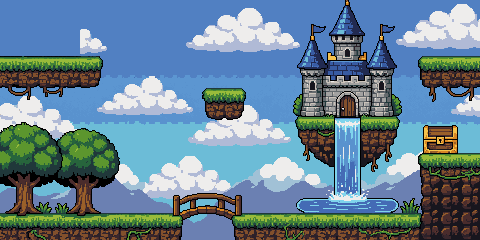
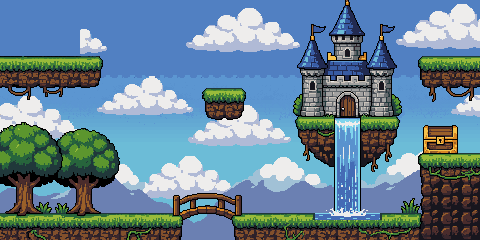
Cena inicial corrigida (ceu e lago), vidas embaixo da cena, heroina.png no app, e-mail da ficha escondido

Changed region(s): [[0.5938, 0.7875, 0.8438, 0.9333]]

diff --git a/index.html b/index.html
@@ -225,13 +225,17 @@ pre.codigo {
 .topo-meta { font-family: var(--f-pixel); color: var(--texto-2); font-size: 14px; }
 .tela-jogo { position: relative; border: 4px solid var(--borda); box-shadow: 7px 7px 0 var(--borda); background: var(--cod-bg); }
 .tela-jogo canvas { display: block; width: 100%; height: auto; filter: var(--filtro-arte); }
-.tj-hud { position: absolute; top: 8px; left: 8px; right: 8px; display: flex; justify-content: space-between; align-items: center; pointer-events: none; font-family: var(--f-pixel); }
+/* Vidas, nível e moedas numa barra embaixo da cena, para não cobrir o céu. */
+.tj-hud {
+  display: flex; justify-content: space-between; align-items: center; gap: 8px; padding: 6px 10px;
+  border-top: 4px solid var(--borda); background: var(--cod-bg); font-family: var(--f-pixel);
+}
 .tj-esq { display: flex; align-items: center; gap: 4px; }
 .tj-esq img { width: 20px; height: 20px; }
 .tj-pilula { background: var(--painel); color: var(--texto); border: 2px solid var(--borda); padding: 1px 8px; font-size: 14px; display: inline-flex; align-items: center; gap: 5px; }
 .tj-pilula img { width: 14px; height: 14px; }
 .tj-codigo {
-  position: absolute; left: 10px; top: 40px; max-width: 48%;
+  position: absolute; left: 10px; top: 10px; max-width: 48%;
   margin: 0; background: var(--cod-bg); color: var(--cod-fg); border: 2px solid var(--borda);
   box-shadow: 3px 3px 0 var(--borda); padding: 6px 10px; font: 11px/1.5 var(--f-cod); white-space: pre; overflow: hidden;
 }
@@ -936,7 +940,7 @@ details[open] .seta::before { content: "▾"; }
         </div>
       </article>
 
-      <article class="janela">
+      <article class="janela" id="f-email-janela">
         <header class="janela-barra"><span>4 · E-mail e relatórios</span><span class="luzes"><i></i><i></i><i></i></span></header>
         <div class="janela-corpo">
           <p class="lembrete-dica" id="f-email-intro" style="margin-top:0">Opcional. Receba o relatório da semana (domingo) e um alerta quando a sequência estiver em risco.</p>
@@ -1107,6 +1111,8 @@ const CHAVE_LOCAL = "pythonia-progresso-v1";
 const ENDERECO_APP = "https://matheulb.github.io/pythonia/";
 // Servidor de avisos no Mac mini (Tailscale Funnel): guarda a inscrição de push e manda o lembrete diário.
 const SERVIDOR_AVISOS = "https://mac-mini-de-matheus.tail73f195.ts.net:8443";
+// E-mail da ficha (relatório e alertas): pronto no app e no servidor, desligado até o Gmail do curso existir (decisão do dono).
+const EMAILS_LIGADOS = false;
 
 // Rotina diária (estilo Duolingo): meta de XP, sequência de dias, 3 desafios por dia e um baú.
 // Meta diária em XP; missões e minutos são a média de uma missão comum (50 XP, uns 10 minutos).
@@ -4909,7 +4915,7 @@ function carregarImagem(src) {
 }
 const IMG = {};
 const imagensProntas = Promise.all(
-  [ARTE.cena, ANIM.heroiAndando.src, ANIM.heroiVitoria.src, ANIM.heroinaAndando.src, ANIM.passaro.src,
+  [ARTE.cena, ...Object.values(ANIM).filter(Boolean).map((folha) => folha.src),
     ...REGIOES.filter((r) => !r.provisoria).map((r) => r.arte),
     ...MISSOES.filter((m) => m.inimigo && !m.regiao.provisoria).map((m) => m.inimigo.folha.src)]
     .map((src) => carregarImagem(src).then((img) => { IMG[src] = img; }))
@@ -5361,7 +5367,7 @@ let duelo = null;
 const CENARIOS = {
   reino: (w) => [
     efeitoPassaros(2, { largura: w, y0: 20, y1: 80 }),
-    efeitoCachoeira({ x: 337, y: 121, largura: 22, altura: 70, lago: { x: 347, y: 205, rx: 45, ry: 6 } }),
+    efeitoCachoeira({ x: 337, y: 121, largura: 22, altura: 92, lago: { x: 347, y: 216, rx: 30, ry: 3 } }),
     efeitoBrilhos(4, { x: 420, y: 118, w: 44, h: 36 }, "255, 240, 160"),
     efeitoQueda(5, { largura: 120, altura: 212, y0: 130, cores: ["#3f9e3f", "#7cc04a", "#2f6b2f"] }),
     efeitoBorboletas(3, { x: 30, y: 168, w: 140, h: 26 }),
@@ -5370,7 +5376,7 @@ const CENARIOS = {
   festa: (w, h) => [
     efeitoNoite(w, h),
     efeitoFogos(5, { largura: w, altura: h, cores: ["#ffd23f", "#ff7ad9", "#7fd3ff", "#7cff8a", "#ff9a3c"] }),
-    efeitoCachoeira({ x: 337, y: 121, largura: 22, altura: 70, lago: { x: 347, y: 205, rx: 45, ry: 6 } }),
+    efeitoCachoeira({ x: 337, y: 121, largura: 22, altura: 92, lago: { x: 347, y: 216, rx: 30, ry: 3 } }),
     efeitoQueda(40, { largura: w, altura: h, cores: ["#f6c33b", "#e0435a", "#5b8def", "#3fbf7a", "#ffffff"], velocidade: [14, 28], balanco: 8 }),
     efeitoHeroiFesta({ x: 110, chao: 214 }),
   ],
@@ -6572,6 +6578,8 @@ function situacaoDoEmail() {
   return `Falta confirmar: abra o e-mail que mandamos para ${perfil.email} e toque no link (veja também o spam).`;
 }
 function renderEmailDaFicha() {
+  $("#f-email-janela").hidden = !EMAILS_LIGADOS;
+  if (!EMAILS_LIGADOS) return;
   if (!NO_APP) {
     $("#f-email-form").hidden = true;
     $("#f-email-intro").innerHTML = `Os relatórios por e-mail funcionam na versão app: <a href="${ENDERECO_APP}" target="_blank" rel="noopener">${ENDERECO_APP.replace("https://", "")}</a>.`;

diff --git a/sw.js b/sw.js
@@ -1,6 +1,6 @@
 // Service worker do Reino de Pythonia: guarda o app no aparelho para funcionar sem internet.
 // VERSAO e ARQUIVOS são preenchidos pelo ferramentas/montar-app.ps1 a cada versão.
-const VERSAO = "20261120-210115";
+const VERSAO = "20261121-003523";
 const CACHE = `pythonia-${VERSAO}`;
 const ARQUIVOS = [
   "./",
@@ -28,6 +28,7 @@ const ARQUIVOS = [
   "./arte/etapa-iniciante.png",
   "./arte/etapa-intermediario.png",
   "./arte/heroi.png",
+  "./arte/heroina.png",
   "./arte/regiao-castelo.png",
   "./arte/regiao-caverna.png",
   "./arte/regiao-floresta.png",
